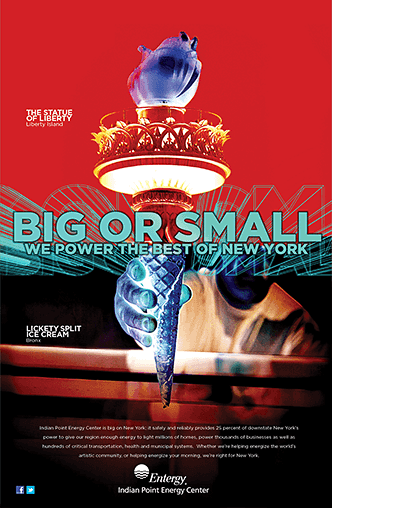
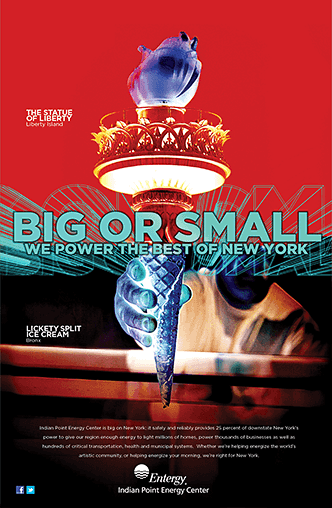
Auto-trim whitespace from Entergy posters
Removed negative space baked into original PNG. Images now
crop tight to poster edges, display naturally in three-up.

diff --git a/danart-campaigns.html b/danart-campaigns.html
@@ -731,7 +731,7 @@
             <h2>Power That Matters</h2>
             <p>Entergy's Long Island power plant license was up for renewal. To rally support for the renewal process, they needed to communicate the importance of the plant as well as Entergy's hand in powering all the things New Yorkers love, regardless of size.</p>
           </div>
-          <div class="project__gallery-row" style="align-items: start; gap: 0.25rem; max-width: 130%;">
+          <div class="project__gallery-row" style="align-items: start; gap: 0.5rem;">
             <div class="project__media--expandable" data-gallery="entergy"><img src="images/work/entergy_1.png" alt="Entergy - Big or Small 1" style="width: 100%; border-radius: 12px;"></div>
             <div class="project__media--expandable" data-gallery="entergy"><img src="images/work/entergy_2.png" alt="Entergy - Big or Small 2" style="width: 100%; border-radius: 12px;"></div>
             <div class="project__media--expandable" data-gallery="entergy"><img src="images/work/entergy_3.png" alt="Entergy - Big or Small 3" style="width: 100%; border-radius: 12px;"></div>
